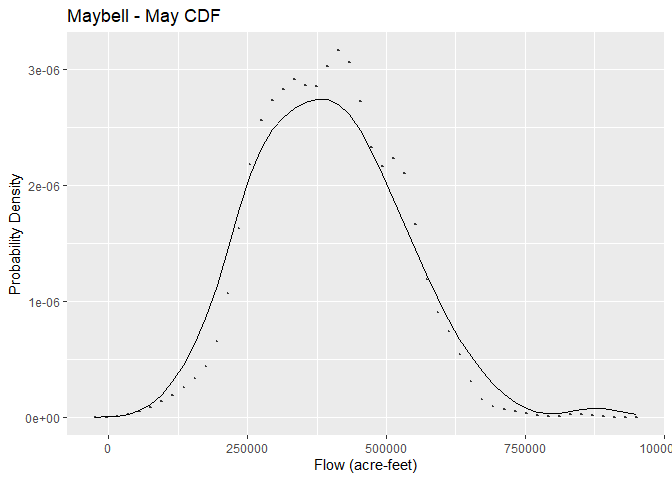
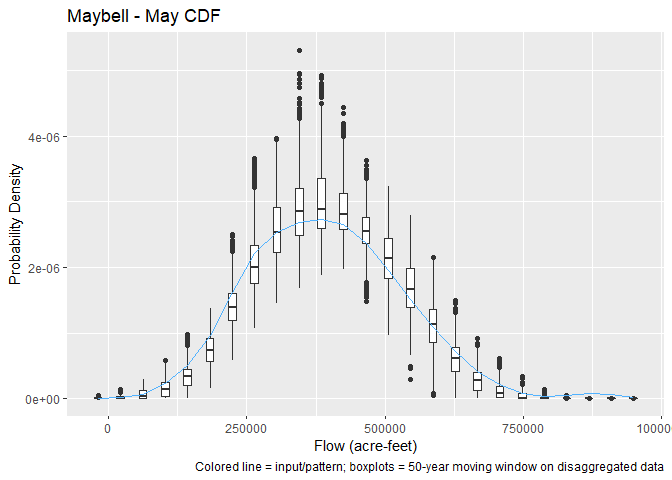
added spatial and temporal correlation plots and updated previous plots to use bin_size

diff --git a/README.md b/README.md
@@ -155,11 +155,15 @@ selected index years.
 
 ### QA/QC
 
+#### Base Statistics
+
 The knnstdisagg package also includes plotting functionality to assist
-with QA/QC. Plots of monthly statistics (), annual statistics (same as
-monthly), annual cdf, and a monthly cdf for each month can be created
-using `plot()`. Each call to plot works for one site. Looking at
-Glenwood Springs monthly statistics:
+with QA/QC. Plots of monthly statistics (mean, max, min, variance, lag-1
+correlation, and skew), annual statistics (same as monthly), annual cdf,
+and a monthly cdf for each month can be created using `plot()`. Each
+call to plot works for one site. A `bin_size` must be specified; this is
+the moving window that all statistics on the disaggregated data are
+computed accross. Looking at Glenwood Springs monthly statistics:
 
 ``` r
 p <- plot(
@@ -167,16 +171,15 @@ p <- plot(
   site = "GlenwoodSprings", 
   base_units = "acre-feet", 
   which = 14, 
-  show = TRUE
+  show = TRUE,
+  bin_size = 50
 )
 ```
 
 <img src="man/figures/README-unnamed-chunk-9-1.png" width="100%" />
 
-Note that because we only ran one simulation/version of the
-disaggregation, the boxplot collapses to near the historical for the
-mean. However, it shows that maxima (minima) larger (smaller) than the
-observed are created.
+*If an unnamed matrix was used for input, then the sites are accessed by
+`"S1"`, `"S2"`, etc. during plotting.*
 
 We can also look at the annual cdf for Bluff, or the May cdf for
 Maybell:
@@ -187,7 +190,8 @@ p <- plot(
   site = "Bluff", 
   base_units = "acre-feet", 
   which = 13, 
-  show = TRUE
+  show = TRUE,
+  bin_size = 50
 )
 ```
 
@@ -199,7 +203,8 @@ p <- plot(
   site = "Maybell", 
   base_units = "acre-feet", 
   which = 5, 
-  show = TRUE
+  show = TRUE,
+  bin_size = 50
 )
 ```
 
@@ -215,13 +220,40 @@ p <- plot(
   site = "Cameo", 
   base_units = "acre-feet", 
   which = 1:15, 
-  show = FALSE
+  show = FALSE,
+  bin_size = 50
 )
 save_knnstplot(p, "Cameo.pdf", width = 8, height = 6)
 ```
 
-*If an unnamed matrix was used for input, then the sites are accessed by
-`"S1"`, `"S2"`, etc. during plotting.*
+#### Spatial Correlation
+
+Another statistic to check is the spatial correlation between sites.
+This is computed using `knnst_spatial_cor()`. For each specified site,
+the correlation with all other sites is computed, and then it can be
+easily plotted. To get the correlation from Cameo and Hoover to all
+other
+sites:
+
+``` r
+sp_cor <- knnst_spatial_cor(disagg, sites = c("Cameo", "Hoover"), bin_size = 50)
+plot(sp_cor)
+```
+
+<img src="man/figures/README-unnamed-chunk-15-1.png" width="100%" />
+
+#### Temporal Correlation
+
+A final statistic to compare is the monthly cross correlation. This is
+computed using `knnst_temporal_cor()` and is only computed for one site
+at a time. To compute the monthly cross correlation at Greendale:
+
+``` r
+tmp_cor <- knnst_temporal_cor(disagg, site = "Greendale", bin_size = 50)
+plot(tmp_cor)
+```
+
+<img src="man/figures/README-unnamed-chunk-16-1.png" width="100%" />
 
 ### Recreating Disaggregation
 
